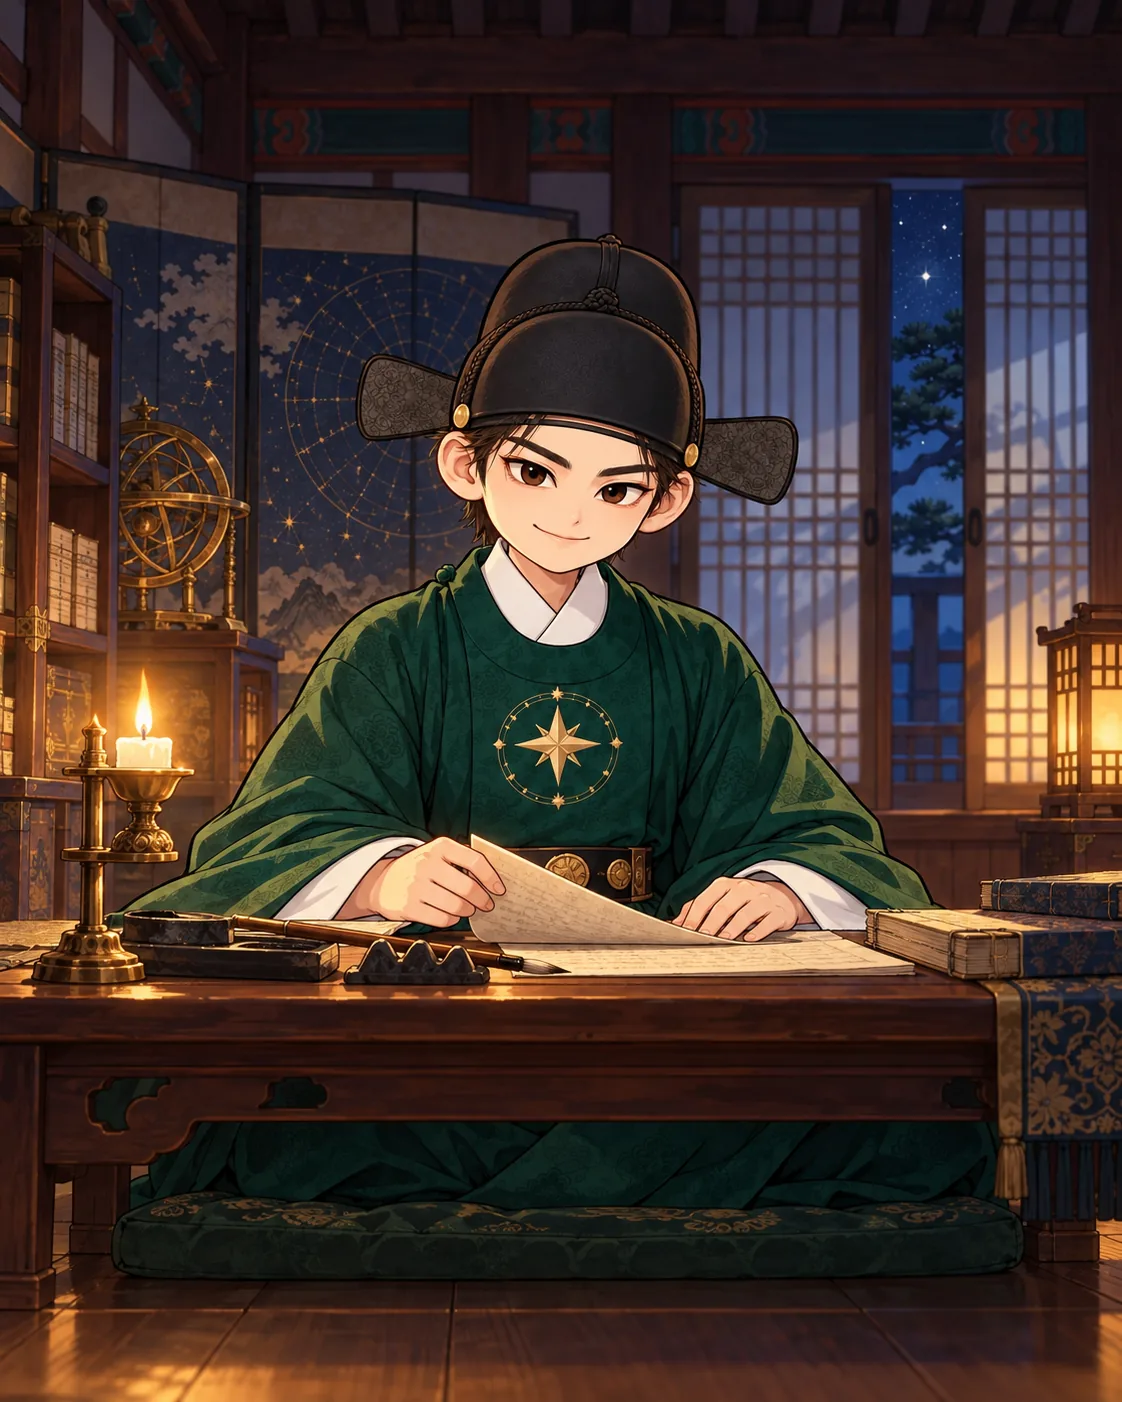
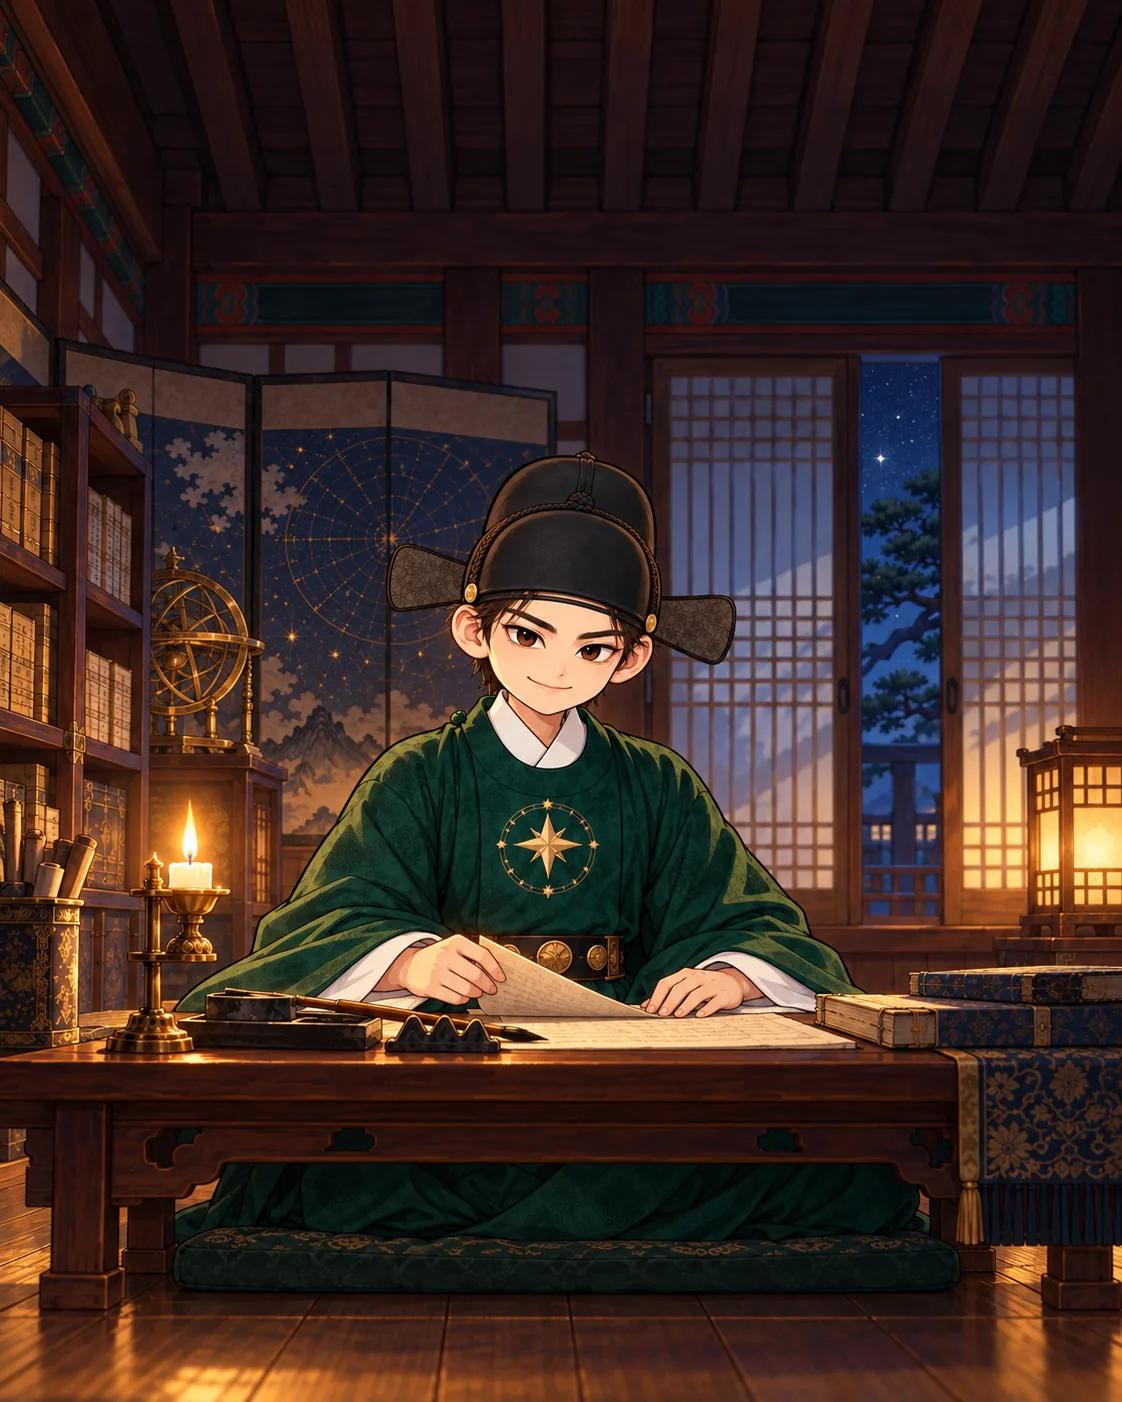
청심당: 현판 자리 있는 새 사랑방 그림, 답서 쓰는 동안 붓 든 정 훈도
Claude-Session: https://claude.ai/code/session_01VzNXFL6pKmRhG5PhFNw54P

diff --git a/jojeong/app/ask/AskForms.tsx b/jojeong/app/ask/AskForms.tsx
@@ -1,5 +1,6 @@
 "use client";
 
+import Image from "next/image";
 import { useActionState, useEffect, useRef, useState } from "react";
 import PersonFields from "@/components/PersonFields";
 import { keepValues } from "@/lib/keepForm";
@@ -57,15 +58,17 @@ function Writing({ question, topic }: { question: string; topic: string }) {
         {topic && <span className="block text-[11px] font-bold text-seal">{topic}</span>}
         <p className="whitespace-pre-wrap">{question}</p>
       </div>
-      <div className="doc-paper rounded-[4px] px-6 py-6 text-center text-ink" role="status">
-        <p className="font-myeongjo text-[15px] font-extrabold">정 훈도가 답서를 쓰고 있사옵니다</p>
-        <p className="mt-1.5 text-[13px] text-ink-soft">{STEPS[step]}</p>
-        <div className="mx-auto mt-4 flex w-40 flex-col gap-2" aria-hidden>
-          {[100, 85, 92, 60].map((w, i) => (
-            <span key={i} className="h-1.5 animate-pulse rounded-full bg-ink/10" style={{ width: `${w}%`, animationDelay: `${i * 150}ms` }} />
-          ))}
+      {/* 정 훈도 at his desk, brush in hand (public/cards/sarangbang-writing.webp) */}
+      <div className="relative overflow-hidden rounded-xl shadow-[0_6px_18px_rgb(0_0_0/0.4)] ring-1 ring-[#e2bc68]/30" role="status">
+        <div className="relative aspect-[4/3]">
+          <Image src="/cards/sarangbang-writing.webp" alt="정 훈도가 붓을 들어 답서를 쓰는 모습" fill sizes="420px" className="object-cover object-[50%_58%]" />
+          <span aria-hidden className="absolute inset-x-0 bottom-0 h-28 bg-gradient-to-b from-transparent to-[#141a22]/95" />
         </div>
-        <p className="mt-4 text-[11px] text-ink-soft">30초~1분쯤 걸려요. 이 화면을 닫지 말아 주세요.</p>
+        <div className="absolute inset-x-0 bottom-0 px-5 pb-4 text-center text-hanji">
+          <p className="font-myeongjo text-[16px] font-extrabold drop-shadow">정 훈도가 답서를 쓰고 있사옵니다</p>
+          <p className="mt-1 animate-pulse text-[13px] text-[#e2bc68]">{STEPS[step]}</p>
+          <p className="mt-1.5 text-[11px] text-hanji/60">30초~1분쯤 걸려요. 이 화면을 닫지 말아 주세요.</p>
+        </div>
       </div>
     </div>
   );

diff --git a/jojeong/app/ask/Hall.tsx b/jojeong/app/ask/Hall.tsx
@@ -115,7 +115,7 @@ export function Floor({ children, className = "" }: { children: React.ReactNode;
 
 // 청심당 inside, as drawn (public/cards/sarangbang.webp: 정 훈도 at his desk, the star screen, the moonlit doors):
 // the picture with the plaque over its ceiling beams, fading into the night blue where `children` sit.
-// `short`: a wide crop of it with no plaque (his hat sits high), as the head of a room (app/ask/[id]).
+// `short`: a wide crop of him at the desk, with no plaque, as the head of a room (app/ask/[id]).
 // `corner`: laid over the picture's top left (the way back, in a room).
 export function RoomArt({ children, short = false, caption, corner }: { children?: React.ReactNode; short?: boolean; caption?: string; corner?: React.ReactNode }) {
   return (
@@ -127,7 +127,7 @@ export function RoomArt({ children, short = false, caption, corner }: { children
           fill
           priority
           sizes="440px"
-          className={`object-cover ${short ? "object-[50%_32%]" : ""}`}
+          className={`object-cover ${short ? "object-[50%_52%]" : ""}`}
         />
         <span aria-hidden className={`absolute inset-x-0 top-0 bg-gradient-to-b to-transparent ${short ? "h-14 from-[#141a22]/45" : "h-28 from-[#141a22]/85"}`} />
         <span aria-hidden className="absolute inset-x-0 bottom-0 h-40 bg-gradient-to-b from-transparent to-[#1b2430]" />
